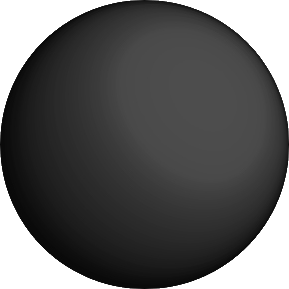
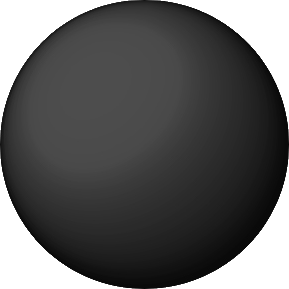
Minor improvements

diff --git a/lib/modules/gameplay/playfield_interface/stone_widget.dart b/lib/modules/gameplay/playfield_interface/stone_widget.dart
@@ -25,8 +25,8 @@ class StoneWidget extends StatelessWidget {
           boxShadow: [
             if (opacity == 1)
               BoxShadow(
-                  blurRadius: 10,
-                  offset: Offset(4, 4),
+                  blurRadius: 4,
+                  offset: Offset(3, 3),
                   color: Colors.grey.shade900,
                   spreadRadius: 0.1)
           ]),
